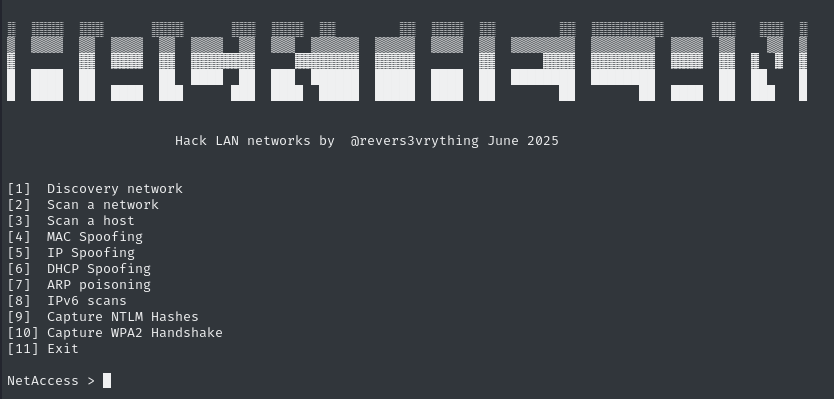
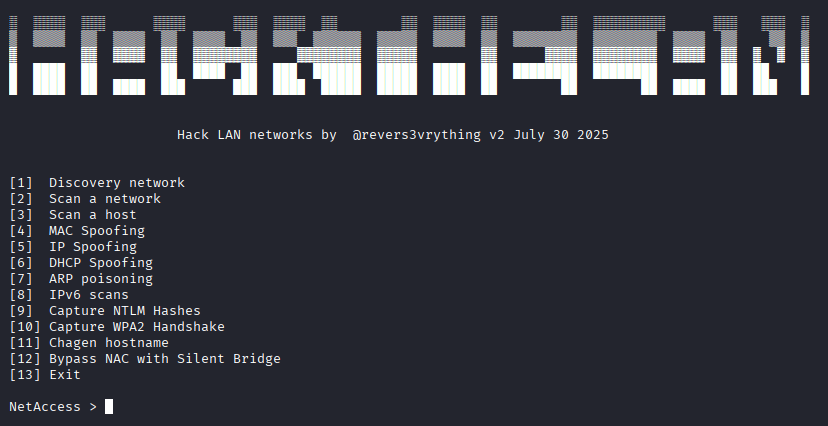
updateversion2

diff --git a/hackthelan.py b/hackthelan.py
@@ -20,8 +20,8 @@ def print_banner():
 █  ████  ██        ██  ████  ██  ███  ██████  █████  ████  ██  ████████  ████████        ██  ██    █
 █  ████  ██  ████  ███      ███  ████  █████  █████  ████  ██        ██        ██  ████  ██  ███   █
                                                                                                     
-
-                     Hack LAN networks by  @revers3vrything June 2025
+                                    version 2 - July 2025
+                     Hack and Acces to LAN networks by  @revers3vrything
     """
     print(banner)
 
@@ -151,28 +151,29 @@ def mac_spoofing():
         else:
             print("[-] Invalid option. Please try again.")
 
+
 def ip_spoofing():
     while True:
         print("\n--- IP Spoofing ---")
         print("[1] Change the IP address manually")
-        print("[2] Return to main menu")
+        print("[2] Remove manually set IP (flush IP configuration)")
+        print("[3] Return to main menu")
 
-        choice = input("Select an option > ")
+        choice = input("Select an option > ").strip()
 
         if choice == '1':
-            interface = input("Enter the network interface (e.g., eth0, wlan0): ")
-            new_ip = input("Enter the new IP address (e.g., 192.168.1.100): ")
-            mask = input("Enter the subnet mask (e.g., 24): ")
-            gateway = input("Enter the gateway IP address (e.g., 192.168.1.1): ")
+            interface = input("Enter the network interface (e.g., eth0, wlan0): ").strip()
+            new_ip = input("Enter the new IP address (e.g., 192.168.1.100): ").strip()
+            mask = input("Enter the subnet mask (e.g., 24): ").strip()
+            gateway = input("Enter the gateway IP address (e.g., 192.168.1.1): ").strip()
 
-            cidr = mask
-            print(f"\n[+] Changing IP of {interface} to {new_ip}/{cidr} with gateway {gateway}...")
+            print(f"\n[+] Changing IP of {interface} to {new_ip}/{mask} with gateway {gateway}...")
 
             # Remove current IP addresses
             subprocess.run(['sudo', 'ip', 'addr', 'flush', 'dev', interface])
 
             # Set new IP address
-            subprocess.run(['sudo', 'ip', 'addr', 'add', f'{new_ip}/{cidr}', 'dev', interface])
+            subprocess.run(['sudo', 'ip', 'addr', 'add', f'{new_ip}/{mask}', 'dev', interface])
 
             # Bring the interface up
             subprocess.run(['sudo', 'ip', 'link', 'set', interface, 'up'])
@@ -185,6 +186,21 @@ def ip_spoofing():
             break
 
         elif choice == '2':
+            interface = input("Enter the network interface to flush (e.g., eth0, wlan0): ").strip()
+            print(f"\n[+] Flushing all IP addresses from {interface}...")
+
+            # Flush all IP addresses
+            subprocess.run(['sudo', 'ip', 'addr', 'flush', 'dev', interface])
+
+            # Optionally bring the interface down and up to fully reset
+            subprocess.run(['sudo', 'ip', 'link', 'set', interface, 'down'])
+            subprocess.run(['sudo', 'ip', 'link', 'set', interface, 'up'])
+
+            print(f"[+] IP addresses removed for interface {interface}.")
+            subprocess.run(['ip', 'addr', 'show', 'dev', interface])
+            break
+
+        elif choice == '3':
             break
 
         else:
@@ -422,6 +438,96 @@ def wifi_deauth_capture_crack():
 
     print("\n[+] Done.")
 
+def change_hostname():
+    new_hostname = input("Enter the new hostname: ").strip()
+
+    if not new_hostname:
+        print("[!] No hostname provided.")
+        return
+
+    try:
+        # Set new hostname
+        subprocess.run(["hostnamectl", "set-hostname", new_hostname], check=True)
+
+        # Modify /etc/hosts
+        with open("/etc/hosts", "r") as file:
+            hosts_content = file.readlines()
+
+        with open("/etc/hosts", "w") as file:
+            for line in hosts_content:
+                if line.startswith("127.0.1.1"):
+                    file.write(f"127.0.1.1\t{new_hostname}\n")
+                else:
+                    file.write(line)
+
+        print(f"\n[+] Hostname successfully changed to '{new_hostname}'")
+
+        # Show current hostname
+        print("\n[+] Verifying current hostname:\n")
+        subprocess.run(["hostname"])
+
+        # Open /etc/hosts in less
+        print("\n[+] Showing /etc/hosts contents:\n")
+        subprocess.run(["less", "/etc/hosts"])
+
+    except subprocess.CalledProcessError as e:
+        print(f"[!] Command failed: {e}")
+    except Exception as e:
+        print(f"[!] Error: {e}")
+
+def run_silent_bridge():
+    try:
+        target_path = "silentbridge"
+        venv_path = os.path.join(target_path, "myenv", "bin", "activate")
+
+        if not os.path.isdir(target_path):
+            print(f"[!] Directory {target_path} does not exist.")
+            return
+        if not os.path.exists(venv_path):
+            print(f"[!] Virtual environment not found at {venv_path}")
+            return
+
+        print("\n=== SilentBridge Menu ===")
+        print("1. Classic 802.1x Bypass Attack")
+        print("2. Another attack, by default show Help ('./silentbridge -h')")
+        print("0. Exit")
+
+        choice = input("\nSelect an option: ").strip()
+
+        if choice == "1":
+            # Get user input for interface names
+            upstream = input("Enter the name of the --upstream interface (e.g., eth0): ").strip()
+            phy = input("Enter the name of the --phy interface (e.g., eth1): ").strip()
+            sidechannel = input("Enter the name of the --sidechannel interface (e.g., eth3): ").strip()
+
+            command = f"./silentbridge --create-bridge --upstream {upstream} --phy {phy} --sidechannel {sidechannel}"
+            print(f"\n[+] Running: {command}\n")
+
+            subprocess.call([
+                "/bin/bash", "-c",
+                f"cd {target_path} && source myenv/bin/activate && {command}"
+            ])
+
+        elif choice == "2":
+            print(f"\n[+] Launching shell in {target_path} with virtual environment activated.")
+            print("[+] Running './silentbridge -h' inside the shell.")
+            print("[+] Type 'deactivate' to exit the environment, and 'exit' to leave the shell.\n")
+
+            subprocess.call([
+                "/bin/bash", "-c",
+                f"cd {target_path} && source myenv/bin/activate && ./silentbridge -h; exec /bin/bash"
+            ])
+
+        elif choice == "0":
+            print("[*] Exiting.")
+            return
+
+        else:
+            print("[!] Invalid option selected.")
+
+    except Exception as e:
+        print(f"[!] An error occurred: {e}")
+
 
 
 def main():
@@ -436,7 +542,9 @@ def main():
 [8]  IPv6 scans
 [9]  Capture NTLM Hashes
 [10] Capture WPA2 Handshake
-[11] Exit
+[11] Chagen hostname
+[12] Bypass NAC with Silent Bridge
+[13] Exit
 """
 
     while True:
@@ -465,6 +573,10 @@ def main():
         elif choice == '10':
             wifi_deauth_capture_crack()
         elif choice == '11':
+            change_hostname()
+        elif choice == '12':
+            run_silent_bridge()
+        elif choice == '13':
             print("Exiting NetAccess. Goodbye!")
             sys.exit(0)
         else:

diff --git a/README.md b/README.md
@@ -1,7 +1,7 @@
 # HackTheLan 🛠
 ![alt text](tool.png)
 
-**HackTheLan** is an all-in-one automated offensive toolkit designed for **pentesters and red teamers** who need to perform **on-site LAN/WLAN attacks and network reconnaissance** efficiently. Built mainly with **Python and Scapy**, this tool brings together multiple attack and discovery capabilities in a single interface.
+**HackTheLan** is an all-in-one automated offensive toolkit designed for **pentesters and red teamers** who need to perform **on-site LAN/WLAN attacks and network reconnaissance** efficiently. Built mainly with **Python and Scapy**, this tool brings together multiple attack and discovery capabilities in a single interface. Also this tool include SilentBridge that allow you to bypass NAC controls 802.1x to access to the Network.
 
 ---
 
@@ -36,6 +36,12 @@ sudo apt install python3-scapy
 
 # Install external tool dependencies
 sudo apt install nmap netdiscover macchanger aircrack-ng netexec
+
+# Install silent bridge
+cd silentbridge/
+python3 -m venv myenv
+source myenv/bin/activate
+sudo ./quick-setup
 ```
 
 **Note:** Make sure you have the following tools installed and accessible from your `$PATH`:
@@ -65,6 +71,7 @@ sudo python3 hackthelan.py
 ## What It Does
 
 - **LAN Discovery:** Identify hosts and network devices using tools like `netdiscover`, `nmap`, or `nxc`.
+- **Bypass the NAC / 802.1x EAP:** Use differents attacks that incorporate SilentBridge tool to bypass 802.1x NAC controls
 - **WLAN Attacks:** Capture WPA2 handshakes using `airodump-ng`, deauth packets with Scapy.
 - **MAC/IP Spoofing:** Bypass NAC restrictions and impersonate devices.
 - **ARP/DHCP Spoofing:** Hijack network traffic and perform MiTM.
